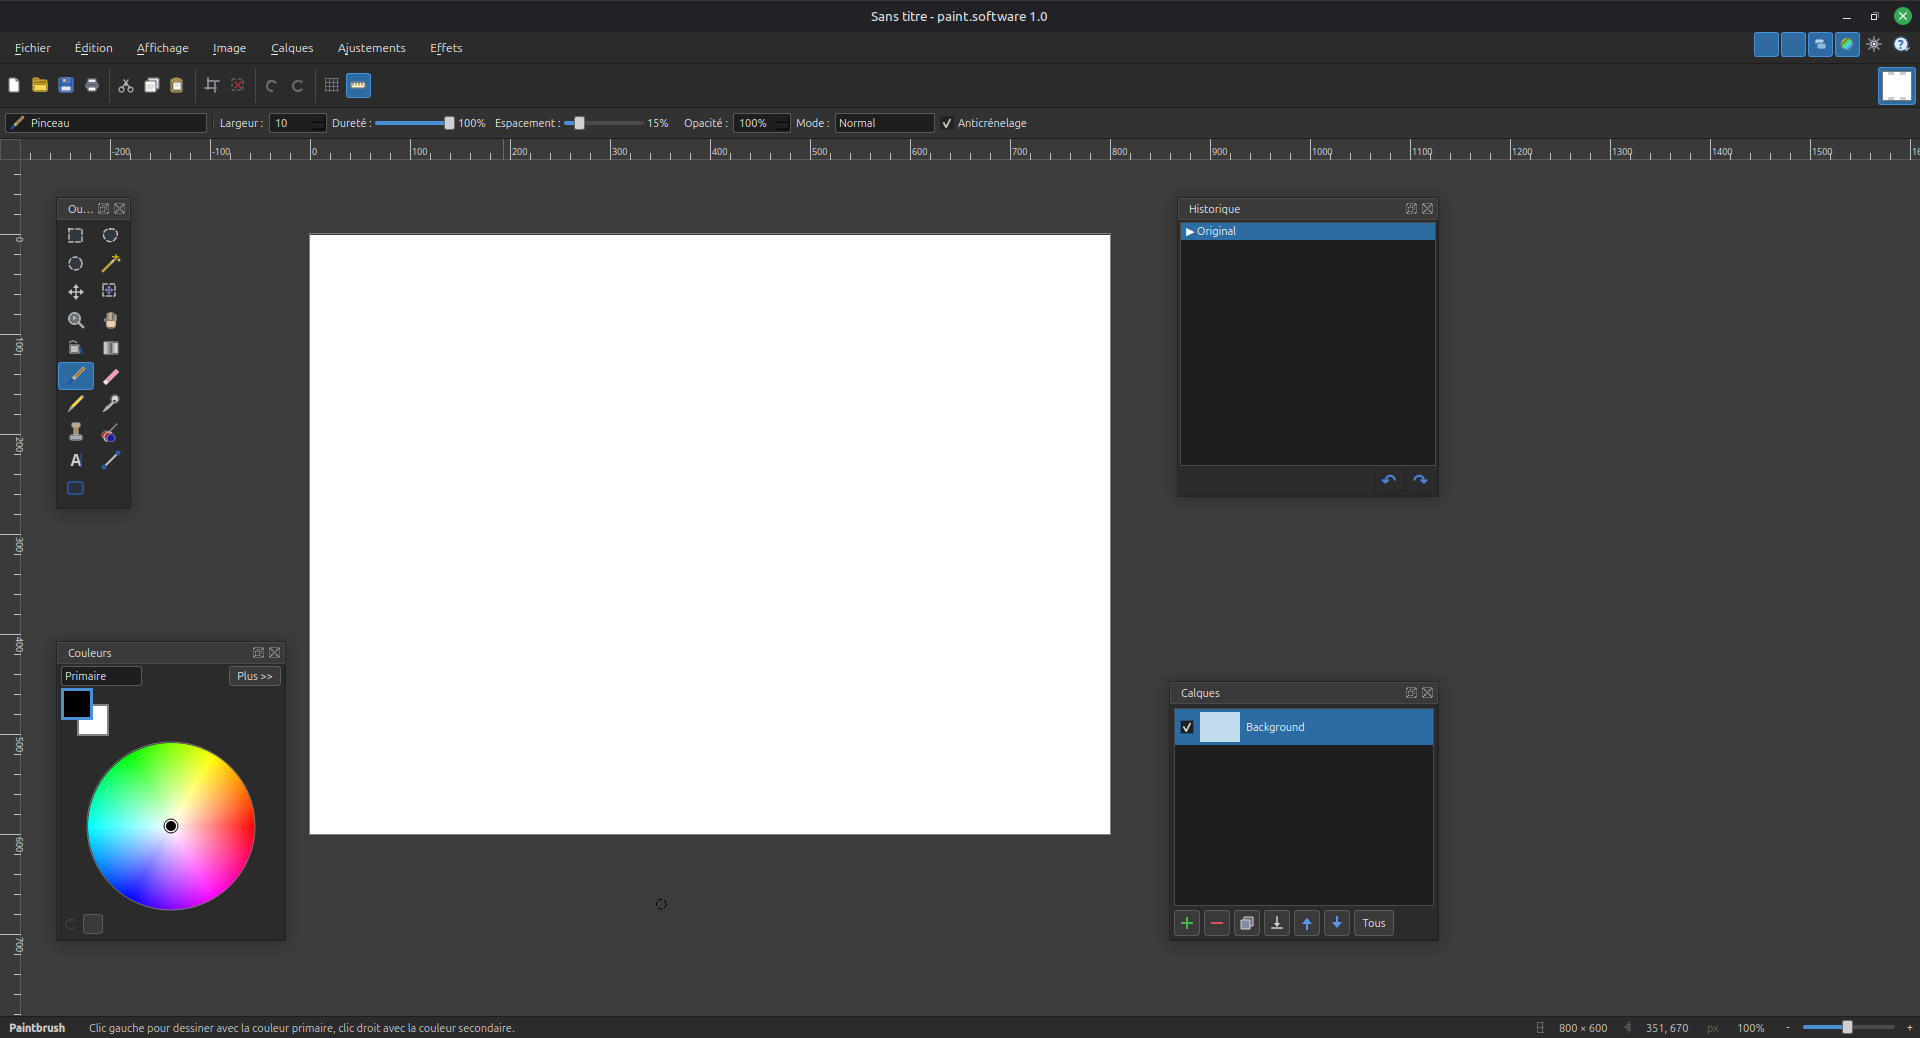
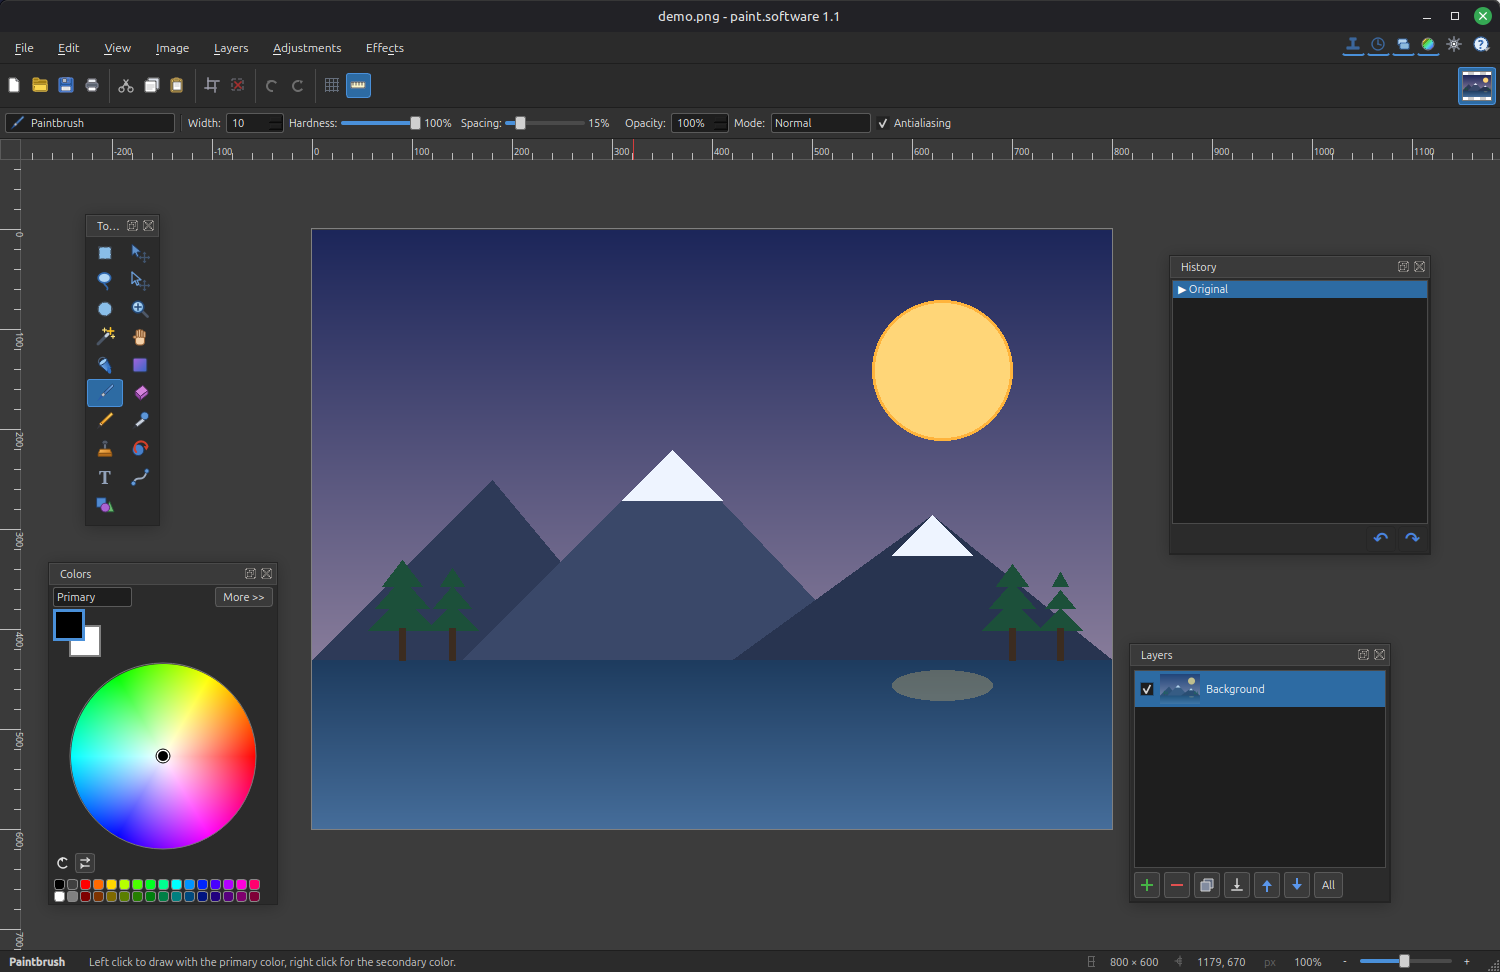
docs: refresh the screenshot and the outdated feature claims
The screenshot predated a day of UI work and misrepresented the app: it showed
the French UI (English is the default now), the old monochrome icons in the wrong
slots, a Colors panel with no palette, an off-centre canvas and a "1.0" title. It
is the first thing a visitor sees, so it was showing a version nobody can install.

Reshot on the current build with an image open, so the layers panel and its
thumbnail actually show something: English menus, the colour icons at paint.net's
slots, the 32-colour palette, centred canvas.

Text fixes:
- The English section pointed at "Effets ▸ Plugins" — a French menu name that no
  longer exists for an English reader.
- Selections claimed only "marquee move"; a handle now stretches, squashes or
  shrinks the artwork itself.
- "UI in French & English" understated the change: English is what a new user
  gets, French is a choice.
- Mention that a sample plugin ships with the package.

The demo image is generated, not one of anyone's photos — this is a public repo.

diff --git a/README.md b/README.md
@@ -10,7 +10,7 @@
 </div>
 
 <div align="center">
-  <img src="docs/screenshot.png" alt="paint.software running on Linux — dark theme with layers, color wheel and tool panels" width="900">
+  <img src="docs/screenshot.png" alt="paint.software running on Linux — a Paint.NET-style image editor: dark theme, tool palette, colour wheel with the Paint.NET palette, layers and history panels" width="900">
 </div>
 
 > **Keywords:** paint.net clone · paint.net for Linux · paint dot net alternative · open-source image editor · photo editor · raster graphics editor · Qt6 · C++
@@ -37,10 +37,11 @@ maintainer's final approval (see [Contributing](#-contributing--en)).
   Posterize, Color Balance, Exposure, Highlights/Shadows, Temperature/Tint, Invert…
 - **30+ effects:** blurs, sharpen, emboss, edge detect, oil paint, pixelate, distortions, drop shadow…
 - **Live-preview dialogs** for adjustments and effects (see the result as you drag the sliders)
-- **Plugin system** — load external effect plugins (native C ABI) that appear under Effets ▸ Plugins, just like Paint.NET ([how to write one](plugins/README.md))
-- **Selections** with feather / grow / shrink, confined editing, and marquee move
+- **Plugin system** — load external effect plugins (native C ABI) that appear under Effects ▸ Plugins, just like Paint.NET ([how to write one](plugins/README.md)). A sample plugin ships with the package.
+- **Selections** with feather / grow / shrink and confined editing — move the marquee alone, or grab a
+  handle to **stretch, squash or shrink the selected artwork** like Paint.NET
 - **Non-destructive history** with click-to-navigate undo/redo, plus autosave / crash recovery
-- **UI in French & English**, light & dark themes matching Paint.NET
+- **UI in English & French** (English by default, switch in Options), light & dark themes matching Paint.NET
 - **Multi-document**, rulers (px / inches / cm), and infinite canvas
 
 ### 🤔 Why paint.software? (a Paint.NET alternative for Linux)
@@ -133,10 +134,11 @@ fusionnée après **mon approbation finale** en tant que mainteneur (voir [Contr
 - **30+ effets :** flous, netteté, relief, détection de contours, peinture à l'huile, pixelisation,
   distorsions, ombre portée…
 - **Dialogues avec aperçu en direct** pour les ajustements et effets (le résultat s'affiche en glissant les curseurs)
-- **Système de plugins** — charge des effets externes (ABI C native) qui apparaissent sous Effets ▸ Plugins, comme Paint.NET ([comment en écrire un](plugins/README.md))
-- **Sélections** avec adoucissement / dilatation / contraction, édition confinée et déplacement du contour
+- **Système de plugins** — charge des effets externes (ABI C native) qui apparaissent sous Effets ▸ Plugins, comme Paint.NET ([comment en écrire un](plugins/README.md)). Un plugin d'exemple est fourni avec le paquet.
+- **Sélections** avec adoucissement / dilatation / contraction et édition confinée — déplacez le contour
+  seul, ou attrapez une poignée pour **étirer, aplatir ou rétrécir le contenu sélectionné** comme Paint.NET
 - **Historique non destructif** avec navigation au clic, plus sauvegarde auto / récupération après plantage
-- **Interface en français & anglais**, thèmes clair & sombre calqués sur Paint.NET
+- **Interface en anglais & français** (anglais par défaut, changeable dans Options), thèmes clair & sombre calqués sur Paint.NET
 - **Multi-documents**, règles (px / pouces / cm) et canevas infini
 
 ### 🤔 Pourquoi paint.software ? (une alternative à Paint.NET pour Linux)
